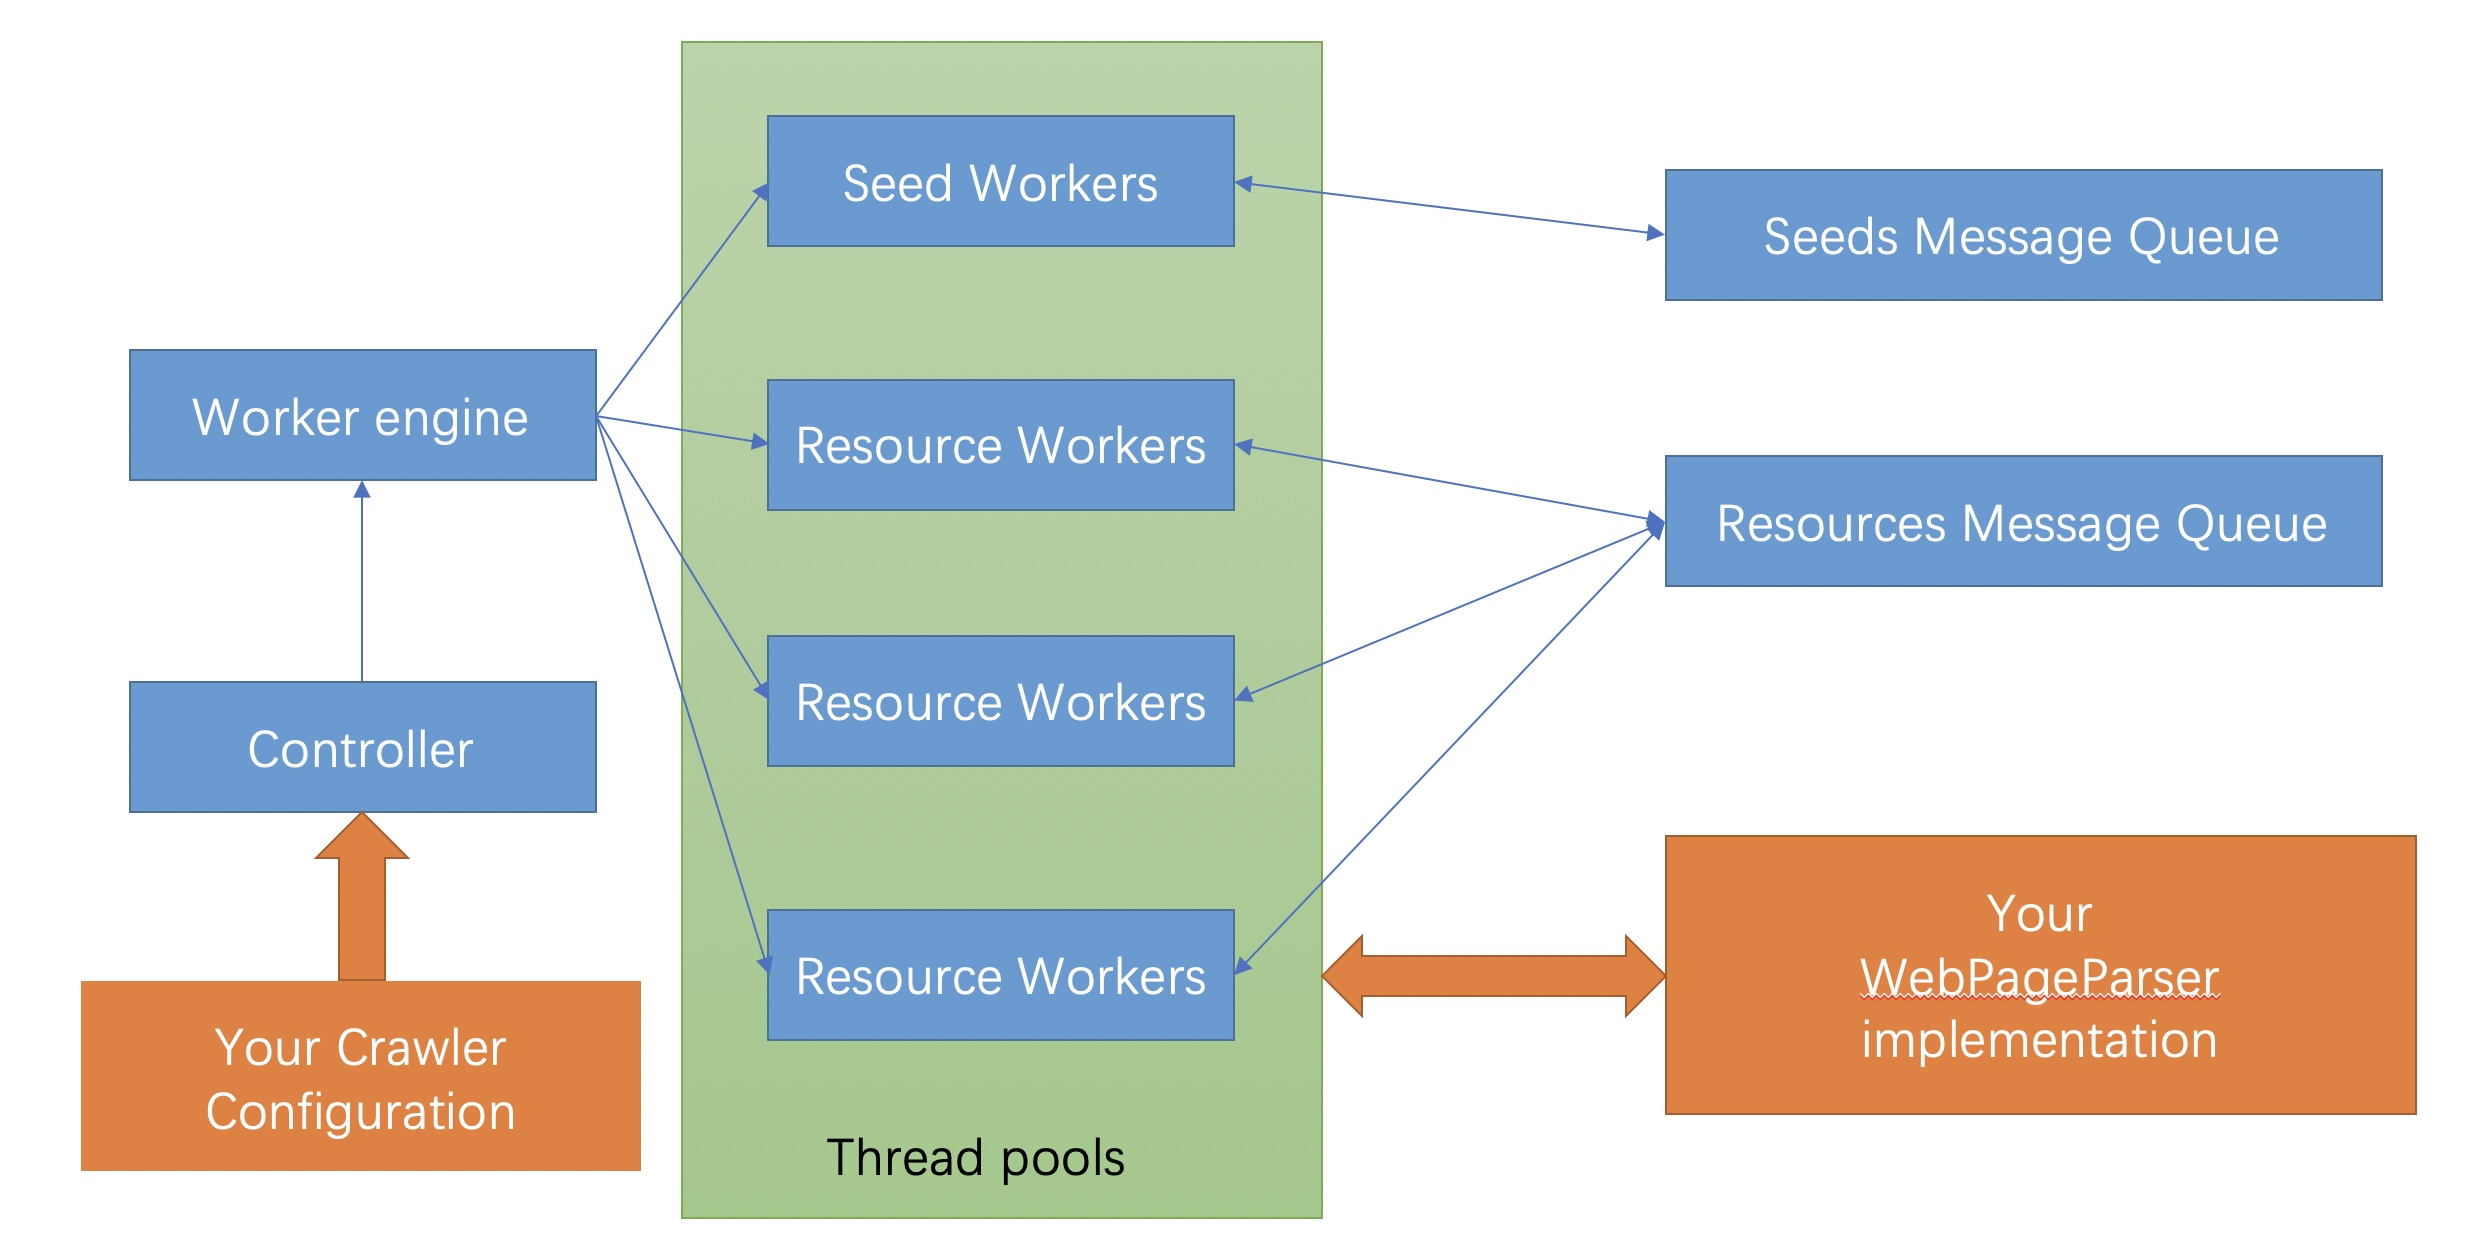
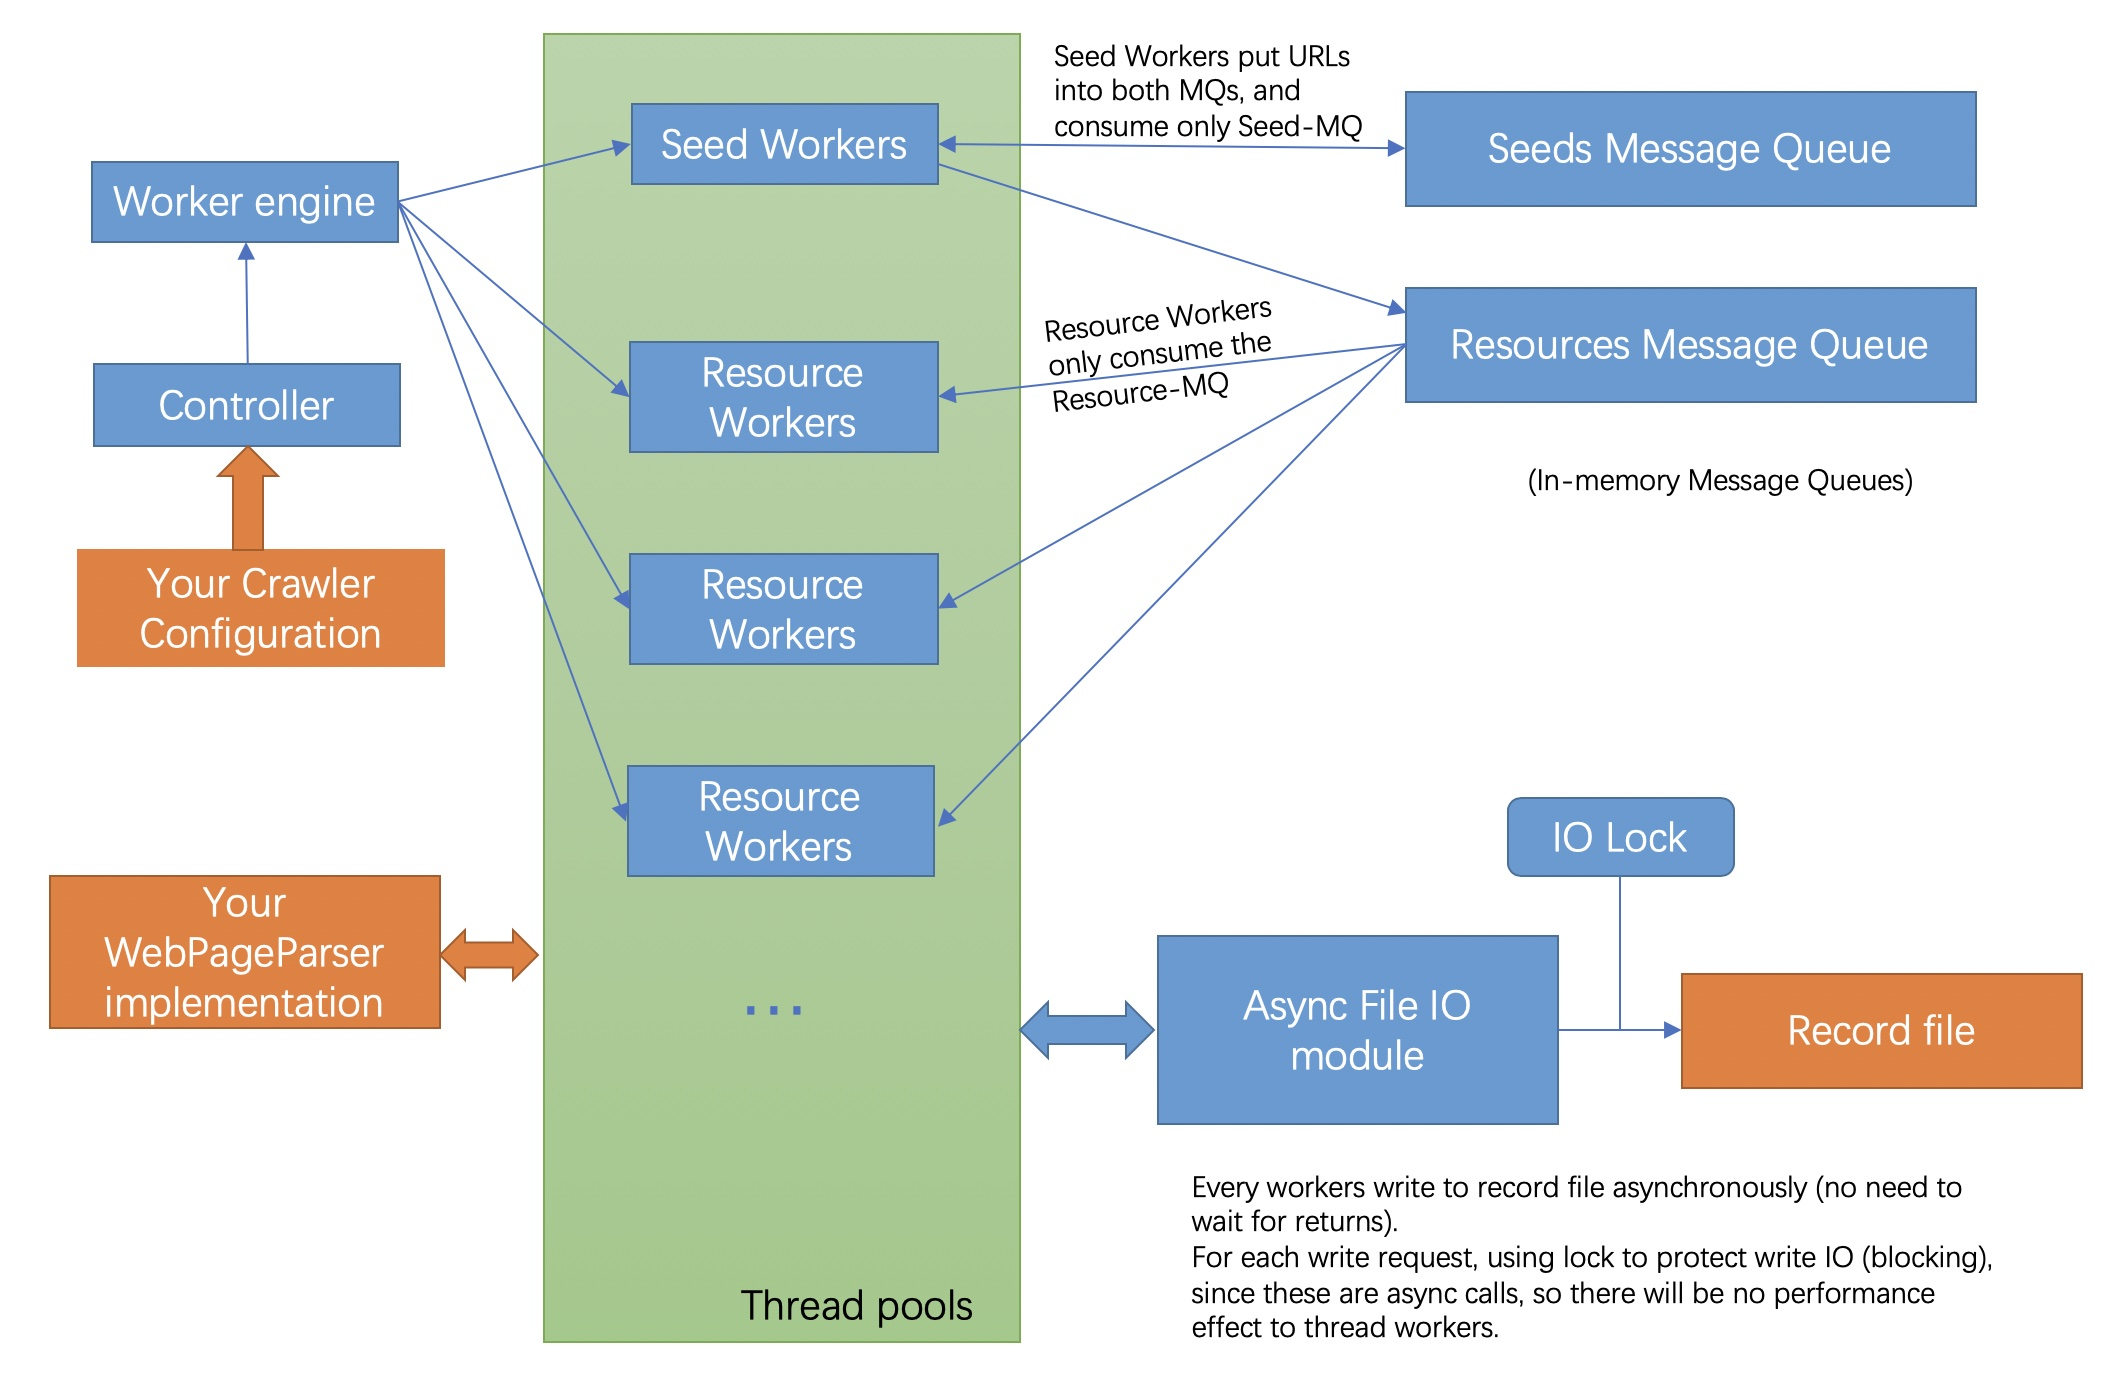
update docs

diff --git a/README.md b/README.md
@@ -2,9 +2,43 @@
 web-crawler-plus (WCP) is a lightweight multi-thread web crawler framework.  
 You can build your own web crawler with little Java coding using this framework. 
 The web crawler can be used on text/picture/music/... auto-crawling.  
+
+WCP uses asynchronously write to document all records which were crawled before. This feature makes sure no duplicated Urls are searched.
   
 Demo is in the package pers.perry.xu.crawler.framework.webcrawler.demo
 
+# Quick start
+```
+# 1. implement the WebPageParser interface, e.g.
+public class YourPageParser implements WebPageParser {
+    @Override
+	public List<String> getSeedUrlsList(WebPage page) {
+        //...
+    }
+    @Override
+	public List<WebMedia> getMediaDataList(WebPage page) {
+        //...
+    }
+    @Override
+	public String getText(WebPage page) {
+        //...
+    }
+}
+
+# 2. build your configuration (workspace path, thread number, seeds, etc.)
+CrawlerConfiguration configuration = new CrawlerConfiguration();
+configuration.addSeed("https://abcdefg");
+configuration.addSeed("hhttps://hijklmn");
+...
+configuration.setMaxThreadNumber(3); // 1 seed worker + 2 resource workers
+configuration.setWorkSpace("/Users/perry/Documents/testprogram/webcrawler/");
+configuration.setParser(new YourPageParser());
+
+# 3. start crawler
+CrawlerController controller = new CrawlerController(configuration);
+controller.startCrawler();
+
+```
 
 ## Architecture Graph for WCP: 
 ![Architecture Graph for WCP](./src/resources/wcp_graph.jpg)
